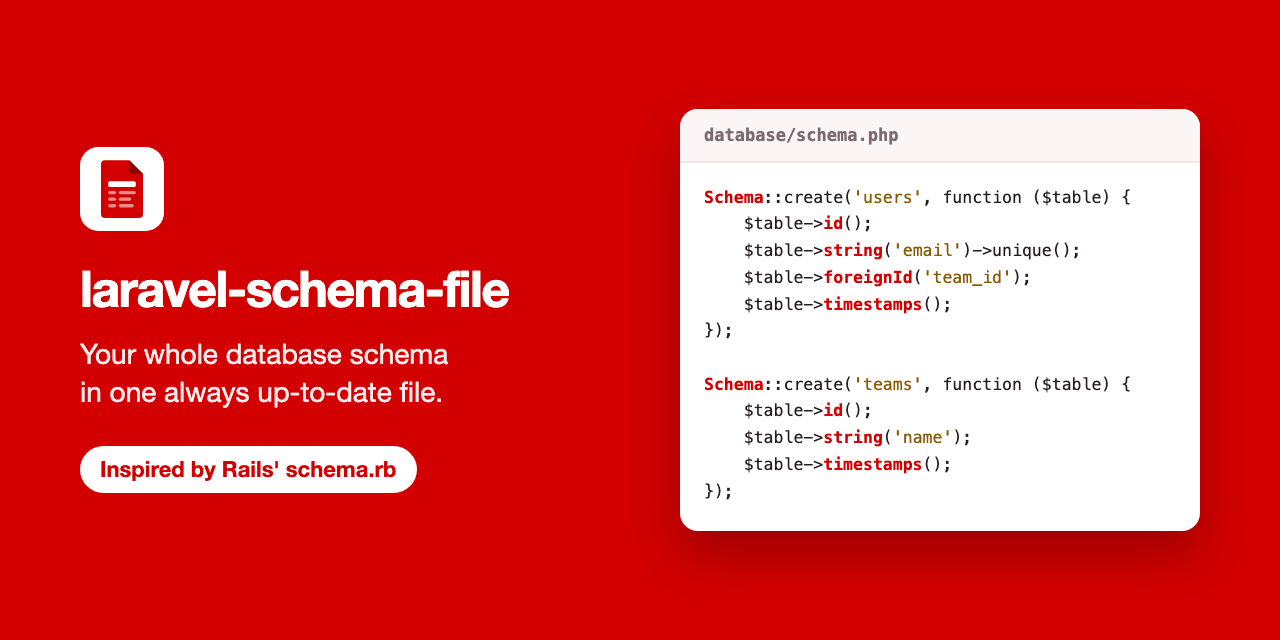
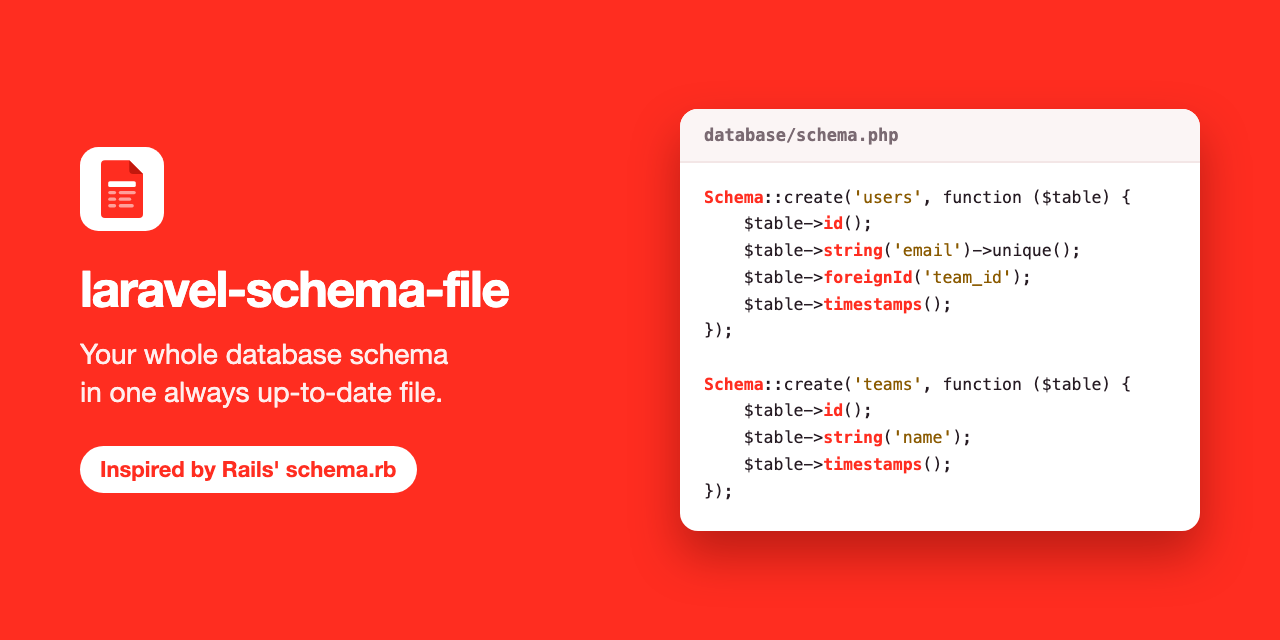
Switch artwork to Laravel red

diff --git a/art/social-card.html b/art/social-card.html
@@ -6,7 +6,7 @@
   * { margin: 0; box-sizing: border-box; }
   html, body { width: 1280px; height: 640px; overflow: hidden; }
   body {
-    background: #D30001;
+    background: #FF2D20;
     color: #fff;
     font-family: -apple-system, "Helvetica Neue", Arial, sans-serif;
     padding: 80px;
@@ -20,7 +20,7 @@
   .tagline { font-size: 28px; line-height: 1.35; margin-top: 22px; opacity: .92; }
   .pill {
     display: inline-block; margin-top: 36px; padding: 10px 20px; border-radius: 999px;
-    background: #fff; color: #D30001; font-size: 22px; font-weight: 700;
+    background: #fff; color: #FF2D20; font-size: 22px; font-weight: 700;
   }
   .file {
     background: #fff; color: #261B23; border-radius: 18px; overflow: hidden;
@@ -31,7 +31,7 @@
     color: #7A6A72; border-bottom: 2px solid #F3E6E6; background: #FBF5F5;
   }
   pre { padding: 22px 24px 26px; font: 16.5px/1.62 ui-monospace, "SF Mono", Menlo, monospace; }
-  .r { color: #D30001; font-weight: 700; }
+  .r { color: #FF2D20; font-weight: 700; }
   .s { color: #8A5A00; }
   .m { color: #9A8A92; }
 </style>
@@ -39,8 +39,8 @@
 <div>
   <svg class="logo" viewBox="0 0 256 256" xmlns="http://www.w3.org/2000/svg">
     <rect width="256" height="256" rx="56" fill="#fff"/>
-    <path d="M76 40h74l42 42v122a12 12 0 0 1-12 12H76a12 12 0 0 1-12-12V52a12 12 0 0 1 12-12z" fill="#D30001"/>
-    <path d="M150 40l42 42h-30a12 12 0 0 1-12-12z" fill="#8F0001"/>
+    <path d="M76 40h74l42 42v122a12 12 0 0 1-12 12H76a12 12 0 0 1-12-12V52a12 12 0 0 1 12-12z" fill="#FF2D20"/>
+    <path d="M150 40l42 42h-30a12 12 0 0 1-12-12z" fill="#C2180D"/>
     <rect x="86" y="104" width="84" height="18" rx="5" fill="#fff"/>
     <rect x="86" y="134" width="24" height="10" rx="5" fill="#fff" opacity=".55"/>
     <rect x="118" y="134" width="52" height="10" rx="5" fill="#fff" opacity=".55"/>
